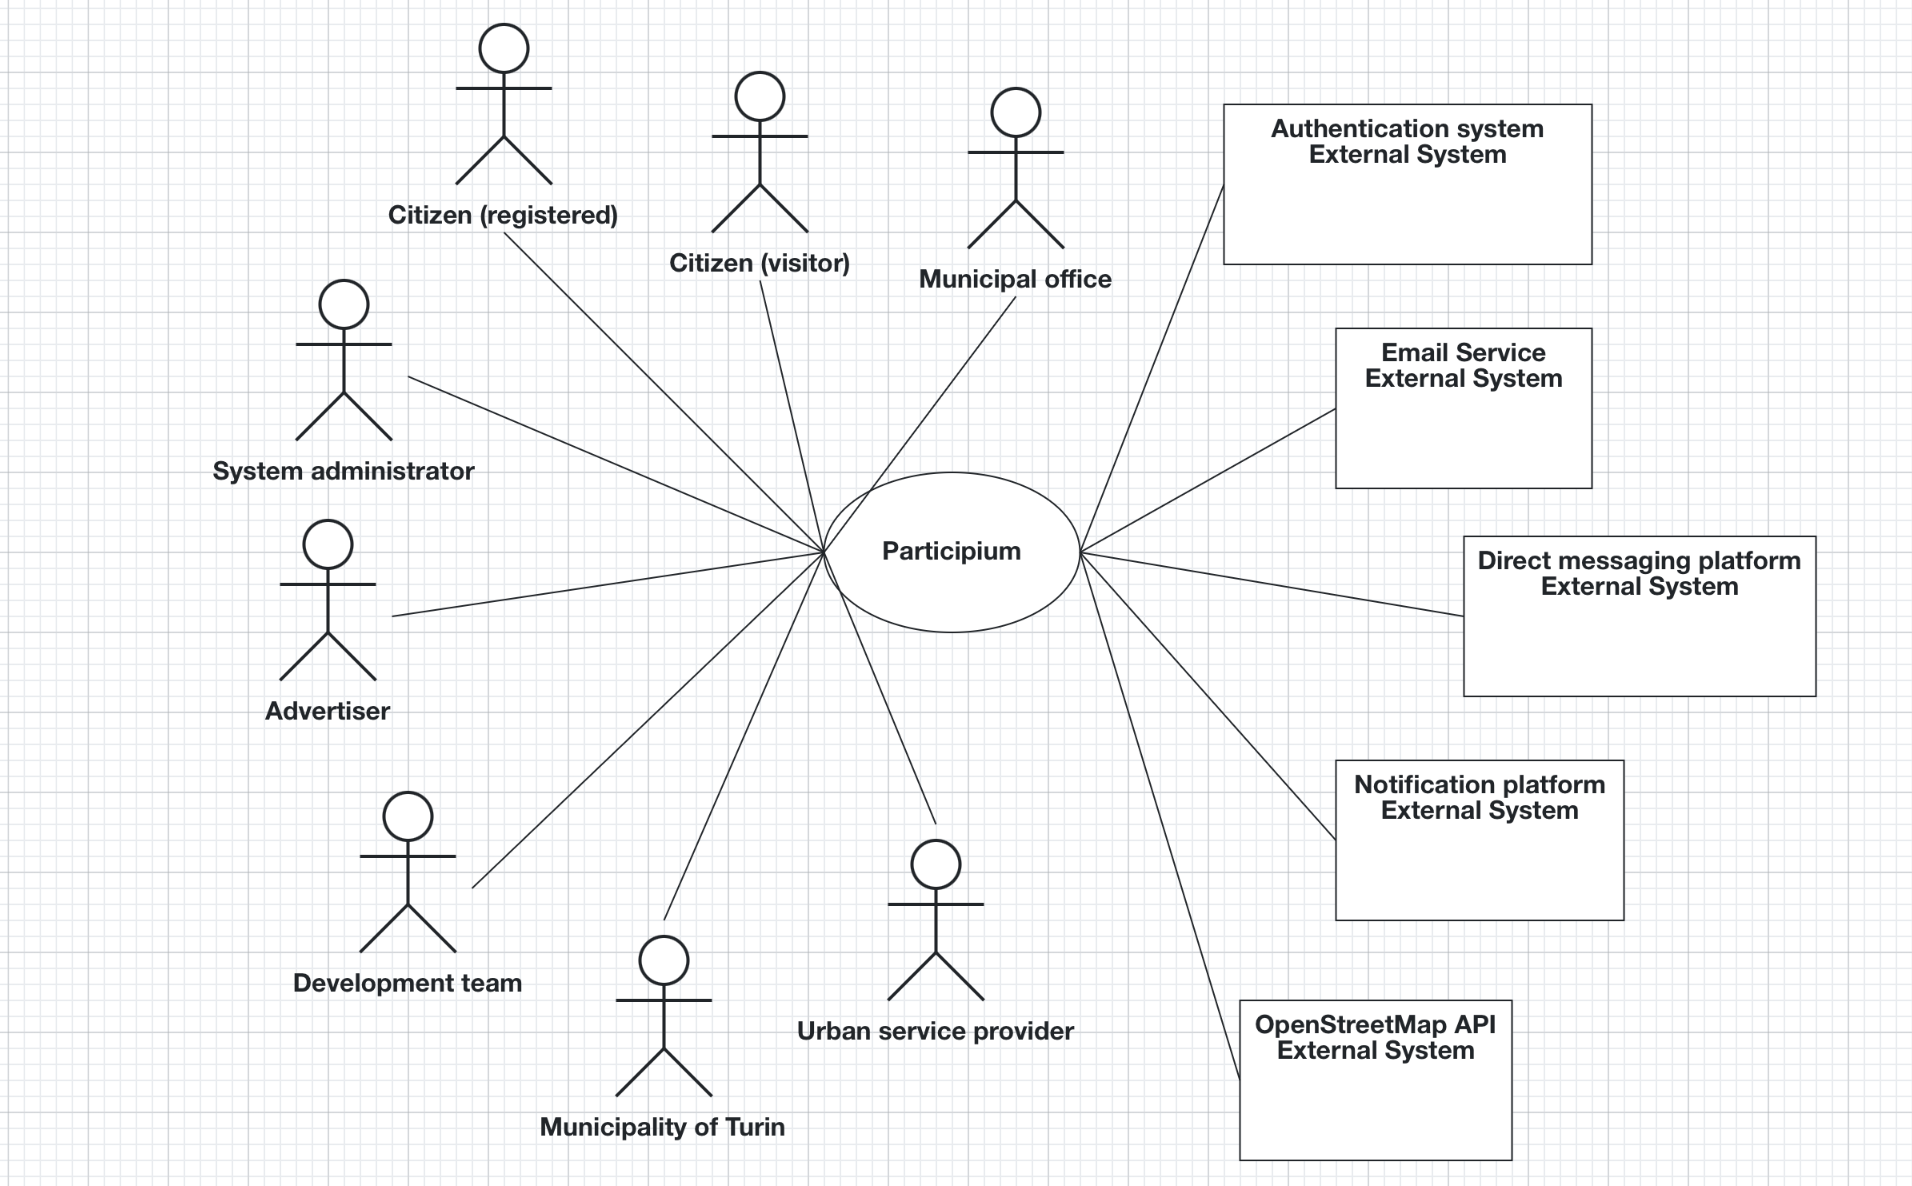
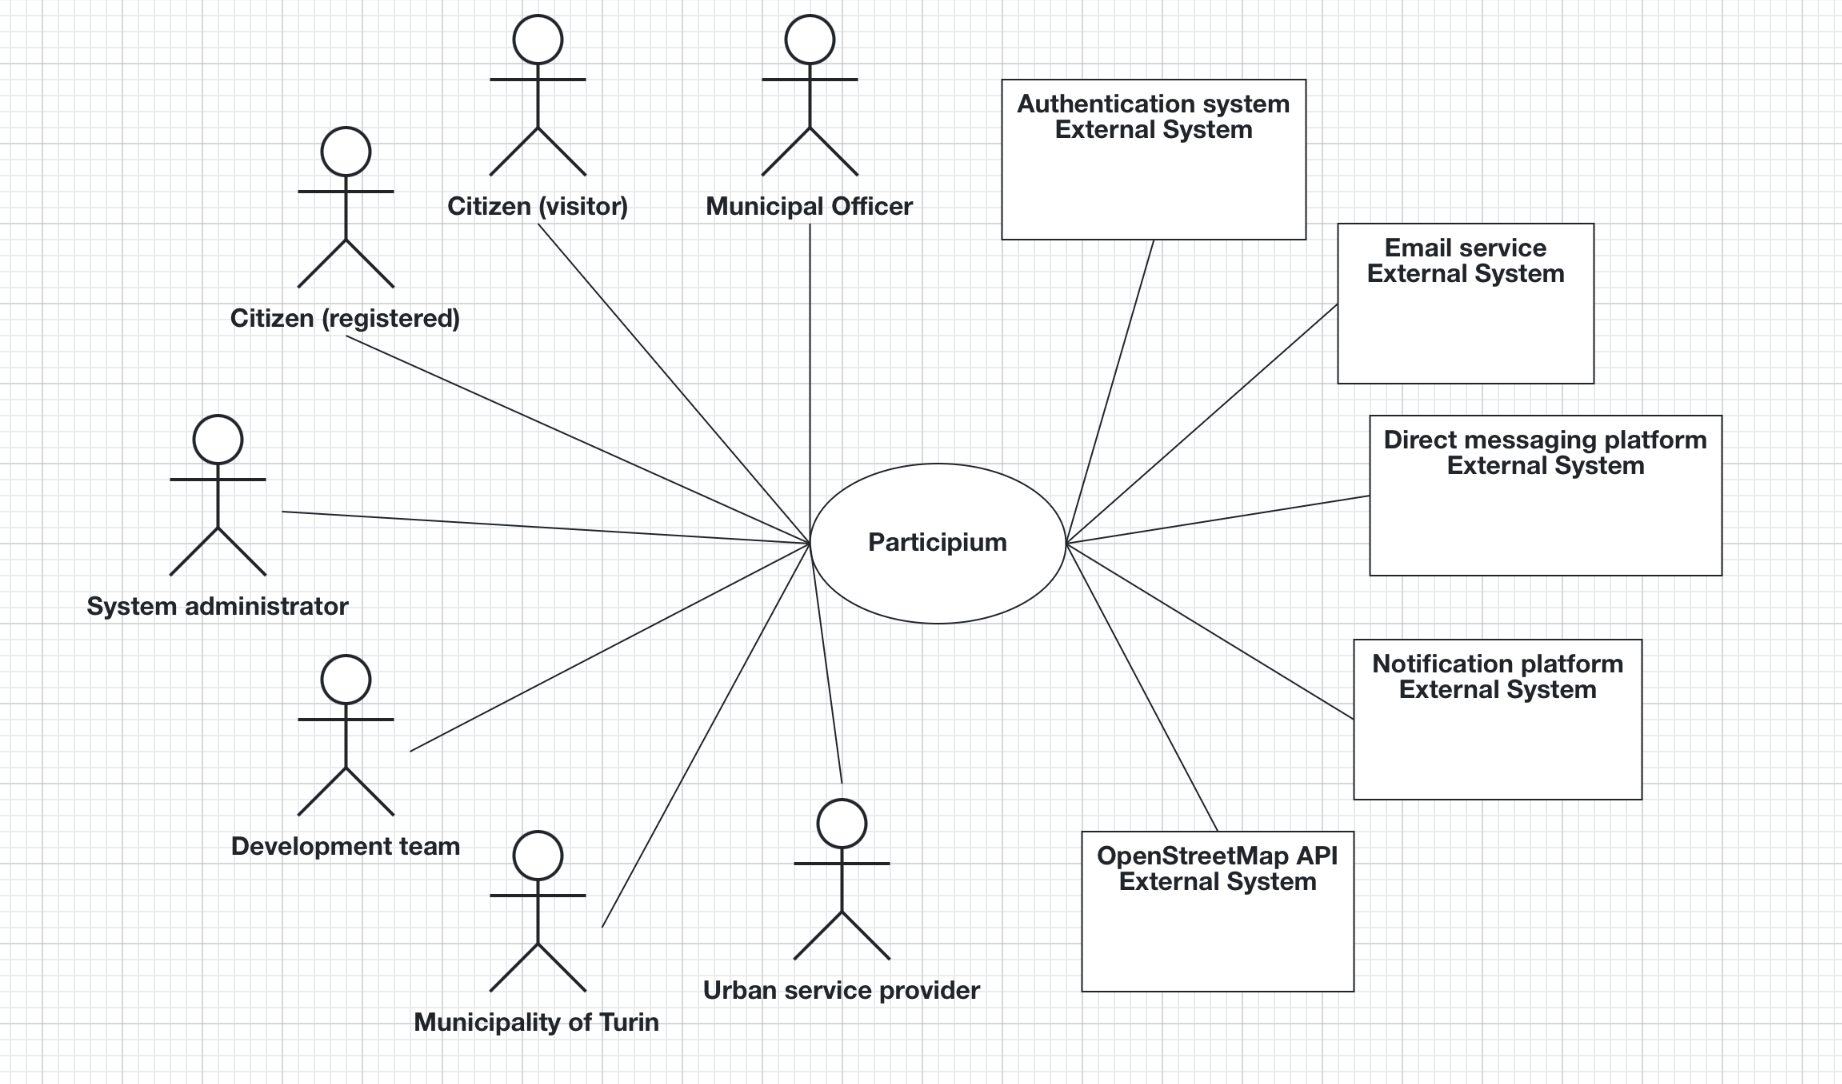
new context-diagram image and user stories adjustments

diff --git a/doc/deliverable/02_RequirementsEngineering.md b/doc/deliverable/02_RequirementsEngineering.md
@@ -59,7 +59,7 @@ Attach your context diagram as an image under `../data/img/` and link it here:
 | PER-1 | Jack | Registered citizen | Citizen of Turin who usually goes to work by car and uses Participium every morning to report and visualize the reports | Avoid traffic disruptions and contribute to improving city service | Limited time due to work; cannot spend much time creating detailed reports | Mostly his smartphone, sometimes his PC | Clear and minimal GUI, simple to use with his smartphone |
 | PER-2 | John | Visitor citizen | Non resident student of Turin who once per week uses car sharing to reach places in Turin far from his home and uses Participium not to be stuck in the traffic | Avoid traffic disruptions | Passive user | Smartphone | Clear and minimal GUI, simple to use with his smartphone |
 | PER-3 | Mary | Municipal officer | She works for the municipality of Turin and her role is to check submitted reports and update their status | Maintaining reports quality and contributing to improve the city service | Time loss in deleting fake reports and in making the bad written ones useful | PC workstation | Automatization of report validation |
-| PER-4 | Lian | System administrator | Technical member of the administration team who works in the security department | Guarantee user data protection and integrity | Must comply with GDPR internal privacy policies and must quickly respond to data integrity incidents | PC workstation | Secure authentication service and clear GDPR documentation |
+| PER-4 | Lian | System administrator | Technical member of the administration team who works in the statistics department | Provide reliable advanced analytics | Must comply with GDPR, ensure data integrity, handle misconfigurations quickly | PC workstation | Secure authentication, analytics dashboard, configuration interface |
 | PER-6 | Lucy | Development team member | Software engineer in charge of implementing new features and maintaining Participium | Deliver reliabke and maintainable system updates | Must follow coding standards | PC workstation and IDE | Access to development tools and documetation |
 | PER-7 | Frank | Municipality of Turin employee | Administrative staff responsible for ensuring policies are applied | Proper handling of urban issues | Limited technical skills | PC workstation | User-friendly GUI and tutorials |
 ---
@@ -88,7 +88,7 @@ Attach your context diagram as an image under `../data/img/` and link it here:
 | US-16 | Municipal officer | As a municipal officer, I want to access the platform with special permissions on reports |
 | US-17 | Municipal officer | As a municipal officer, I want to check reports and be able to update their status. |
 | US-18 | Municipal officer | As a municipal officer, I want to communicate with citizens and urban service providers |
-| US-19 | System administrator | As a system administrator, I want to guarantee the security on user data |
+| US-19 | System administrator | As a system administrator, I want to manage configuration aspects |
 | US-20 | System administrator | As a system administrator, I want to access the platform with special permissions on reports |
 | US-21 | System administrator | As a system administrator, I want to access private statistics so that I can monitor system usage and report trends |
 | US-22 | Development team | As a development team member, I want to implement new features according to requirements so that the system meets user needs |
@@ -139,7 +139,9 @@ Attach your context diagram as an image under `../data/img/` and link it here:
 | FR-9 | The system shall provide means to municipal officers to login with special permissions on reports | Critical | US-16 | Role-based access with elevated permissions for municipal officers. |
 | FR-9.1 | The system shall allow municipal officers to check reports and be able to change their status. | Critical | US-17 | Supports report lifecycle management (status updates). |
 | FR-9.2 | The system shall allow municipal officers to communicate with citizens and urban service providers via platform messages | Critical | US-18 | Extends communication capabilities to include operational actors. |
-| FR-10 | The system shall allow system administrator to login with special permissions on configuration aspects and extended analytics | Critical | US-20 | Role-based access with elevated permission for municipal officers |
+| FR-10 | The system shall allow system administrator to login with special permissions | Critical | US-20 | Role-based access with elevated permission for municipal officers |
+| FR-10.1 | The system shall allow system administrator manage configuration aspects| Critical | US-19 | Role-based access with elevated permission for municipal officers |
+
 
 ---
 
